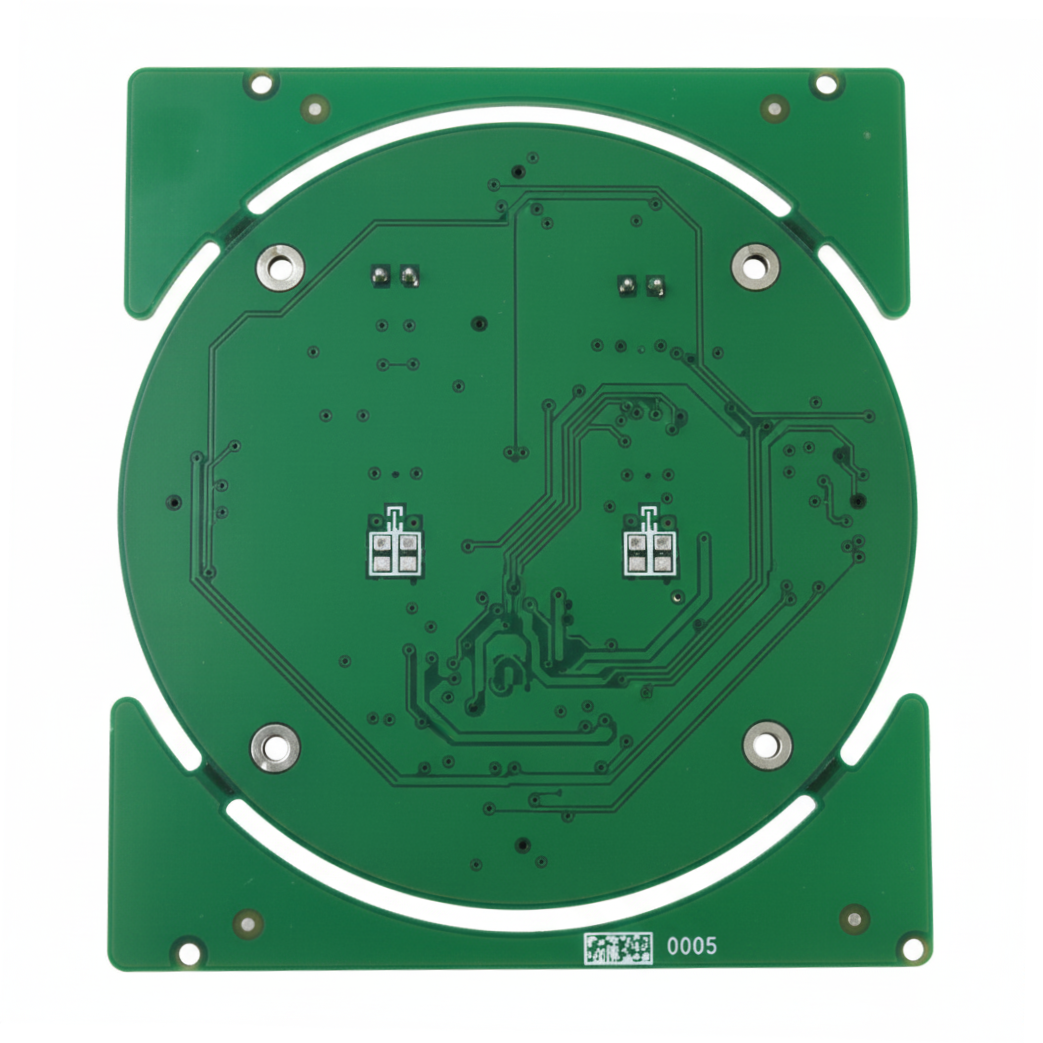
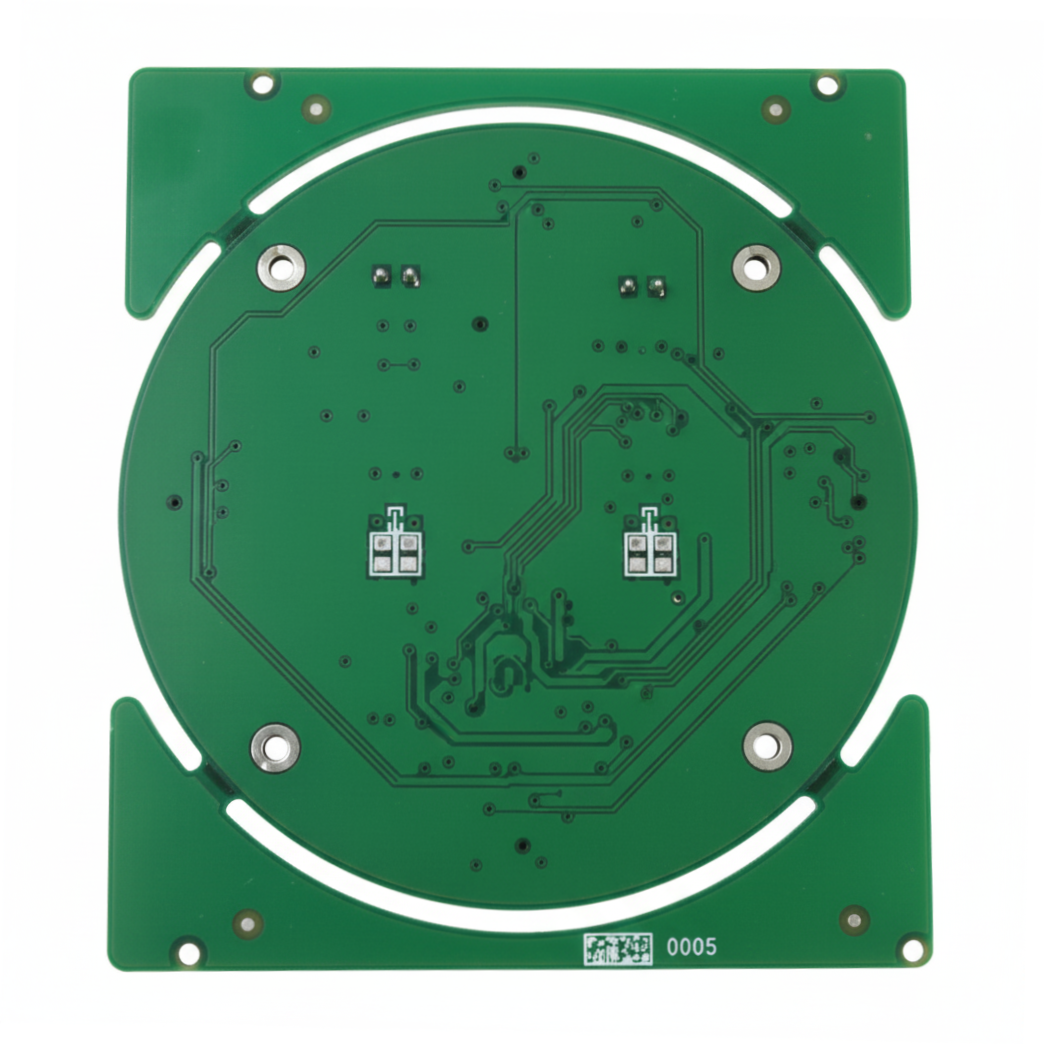
update

diff --git a/source/gta01/user_guide.md b/source/gta01/user_guide.md
@@ -35,7 +35,7 @@ GTA1000 Series 麦克风板（环形）正面布局图
 
 ```{figure} /_static/images/G10002_micboard-circular-back-layout-v1.png  
 :align: center  
-:width: 60%  
+:width: 50%  
 :alt: GTA01 mic卡布局图背  
 
 GTA1000 Series 麦克风板（环形）背面布局图
